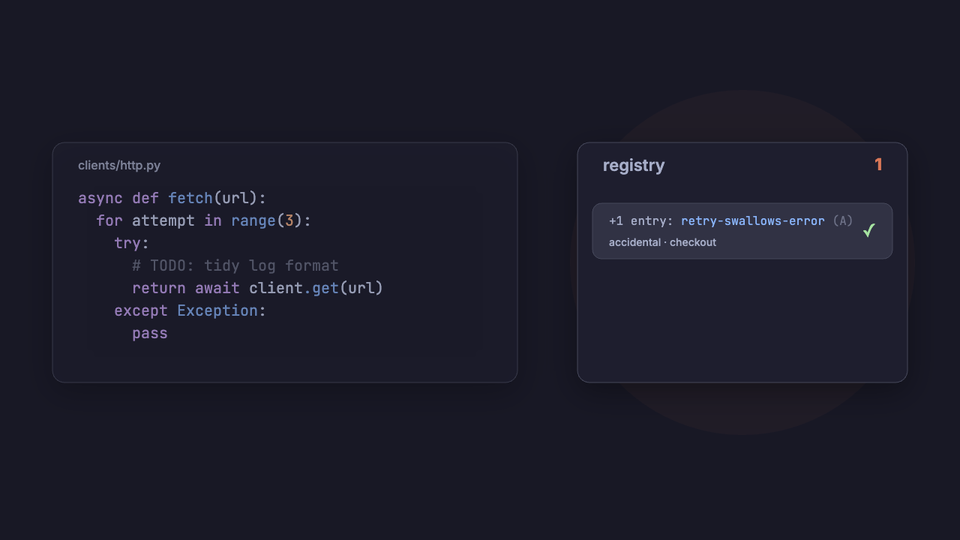
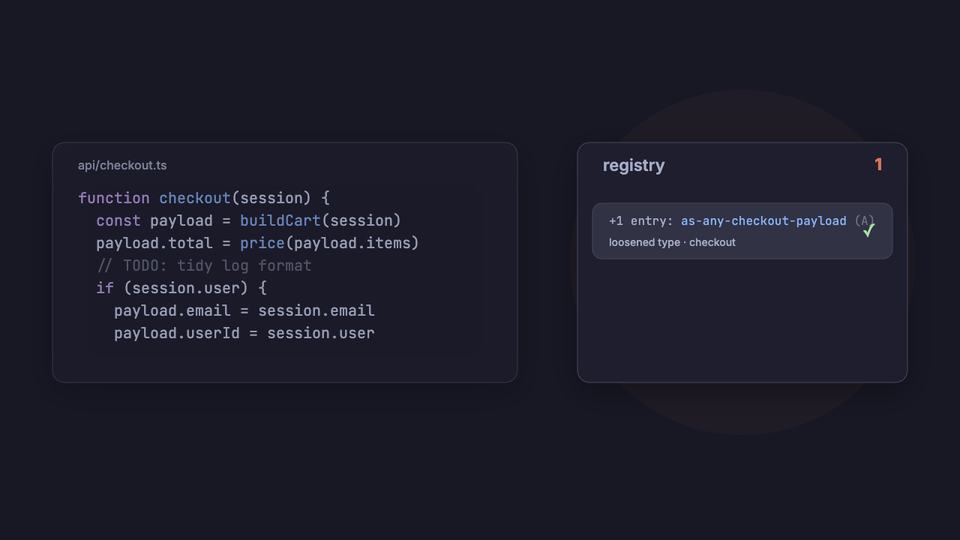
be

diff --git a/demo/concept/src/scenes/main.tsx b/demo/concept/src/scenes/main.tsx
@@ -34,23 +34,23 @@ const cardA = {x: regPanel.x, y: -52, w: 400, h: 74};
 const cardB = {x: regPanel.x, y: 38, w: 400, h: 74};
 
 const codeLines: {indent: number; tokens: [string, string][]}[] = [
-  {indent: 0, tokens: [['async ', T.MAUVE], ['def ', T.MAUVE], ['fetch', T.BLUE], ['(url):', T.TEXT]]},
-  {indent: 2, tokens: [['for ', T.MAUVE], ['attempt ', T.TEXT], ['in ', T.MAUVE], ['range', T.BLUE], ['(', T.TEXT], ['3', T.PEACH], ['):', T.TEXT]]},
-  {indent: 4, tokens: [['try', T.MAUVE], [':', T.TEXT]]},
-  {indent: 6, tokens: [['# TODO: tidy log format', T.OVERLAY0]]},
-  {indent: 6, tokens: [['return ', T.MAUVE], ['await ', T.MAUVE], ['client', T.TEXT], ['.get', T.BLUE], ['(url)', T.TEXT]]},
-  {indent: 4, tokens: [['except ', T.MAUVE], ['Exception', T.BLUE], [':', T.TEXT]]},
+  {indent: 0, tokens: [['function ', T.MAUVE], ['checkout', T.BLUE], ['(session) {', T.TEXT]]},
+  {indent: 2, tokens: [['const ', T.MAUVE], ['payload ', T.TEXT], ['= ', T.TEXT], ['buildCart', T.BLUE], ['(session)', T.TEXT]]},
+  {indent: 2, tokens: [['payload.total ', T.TEXT], ['= ', T.TEXT], ['price', T.BLUE], ['(payload.items)', T.TEXT]]},
+  {indent: 2, tokens: [['// TODO: tidy log format', T.OVERLAY0]]},
+  {indent: 2, tokens: [['if ', T.MAUVE], ['(session.user) {', T.TEXT]]},
+  {indent: 4, tokens: [['payload.email ', T.TEXT], ['= ', T.TEXT], ['session.email', T.TEXT]]},
 ];
-const DEF_INDENT = 6;
-const DEF_PASS = 'pass  ';
-const DEF_COMMENT = '# TODO: last retry swallows error';
+const DEF_INDENT = 4;
+const DEF_KEEP = 'payload.userId = session.user ';
+const DEF_CAST = 'as any';
 
 export default makeScene2D(function* (view) {
   const code = createRef<Rect>();
   const reg = createRef<Rect>();
   const lines = createRefArray<Txt>();
   const defLine = createRef<Txt>();
-  const defComment = createRef<Txt>();
+  const defCast = createRef<Txt>();
   const underline = createRef<Rect>();
   const pulse = createRef<Rect>();
   const chip = createRef<Rect>();
@@ -82,7 +82,7 @@ export default makeScene2D(function* (view) {
         shadowOffsetY={12}
         opacity={0}
       >
-        <Txt text={'clients/http.py'} fontFamily={T.SANS} fontSize={16} fontWeight={500} fill={T.SUBTEXT0} offset={[-1, 0]} x={codeLeft} y={codeTop} />
+        <Txt text={'api/checkout.ts'} fontFamily={T.SANS} fontSize={16} fontWeight={500} fill={T.SUBTEXT0} offset={[-1, 0]} x={codeLeft} y={codeTop} />
         {codeLines.map((line, i) => (
           <Txt ref={lines} fontFamily={T.MONO} fontSize={CODE} textWrap={false} offset={[-1, 0]} x={charX(line.indent)} y={lineYL(i)} opacity={0}>
             {line.tokens.map(([t, c]) => (
@@ -91,11 +91,12 @@ export default makeScene2D(function* (view) {
           </Txt>
         ))}
         <Txt ref={defLine} fontFamily={T.MONO} fontSize={CODE} textWrap={false} offset={[-1, 0]} x={charX(DEF_INDENT)} y={lineYL(6)} opacity={0}>
-          <Txt text={nb(DEF_PASS)} fill={T.MAUVE} />
-          <Txt ref={defComment} text={nb(DEF_COMMENT)} fill={T.OVERLAY0} />
+          <Txt text={nb(DEF_KEEP)} fill={T.TEXT} />
+          <Txt ref={defCast} text={nb(DEF_CAST)} fill={T.MAUVE} />
         </Txt>
-        <Rect ref={pulse} x={charX(25.5)} y={lineYL(6)} width={39 * CH} height={26} radius={6} fill={T.PEACH} opacity={0} />
-        <Rect ref={underline} offset={[-1, 0]} x={charX(6)} y={lineYL(6) + 15} width={0} height={3} radius={2} fill={T.PEACH} />
+        {/* highlight just the `as any` cast — col 34 is where it starts (after the 30-char prefix) */}
+        <Rect ref={pulse} x={charX(37)} y={lineYL(6)} width={6 * CH} height={26} radius={6} fill={T.PEACH} opacity={0} />
+        <Rect ref={underline} offset={[-1, 0]} x={charX(34)} y={lineYL(6) + 15} width={0} height={3} radius={2} fill={T.PEACH} />
       </Rect>
 
       {/* debt registry */}
@@ -118,12 +119,12 @@ export default makeScene2D(function* (view) {
         <Txt ref={count} text={'0'} fontFamily={T.SANS} fontSize={22} fontWeight={800} fill={T.ORANGE} offset={[1, 0]} x={regRight} y={codeTop} />
       </Rect>
 
-      {card(cardARef, checkA, strikeA, cardA, 'retry-swallows-error', 'A', 'accidental · checkout')}
+      {card(cardARef, checkA, strikeA, cardA, 'as-any-checkout-payload', 'A', 'loosened type · checkout')}
       {card(cardBRef, createRef<Txt>(), createRef<Rect>(), cardB, 'log-format-nit', 'B', 'code quality')}
 
       {/* flying chip */}
       <Rect ref={chip} radius={8} fill={T.SURFACE0} stroke={T.PEACH} lineWidth={1.5} padding={[6, 12]} layout opacity={0}>
-        <Txt ref={chipTxt} text={DEF_COMMENT} fontFamily={T.MONO} fontSize={16} fill={T.PEACH} />
+        <Txt ref={chipTxt} text={DEF_CAST} fontFamily={T.MONO} fontSize={16} fill={T.PEACH} />
       </Rect>
 
       {/* brand resolve */}
@@ -132,7 +133,7 @@ export default makeScene2D(function* (view) {
           <Txt text={'debt'} fill={T.TEXT} />
           <Txt text={'-ops'} fill={T.ORANGE} />
         </Txt>
-        <Txt text={'Catches tech debt as your agent writes it.'} fontFamily={T.SANS} fontSize={28} fontWeight={500} fill={T.SUBTEXT1} y={40} />
+        <Txt text={'Catches AI-introduced tech debt at write-time.'} fontFamily={T.SANS} fontSize={28} fontWeight={500} fill={T.SUBTEXT1} y={40} />
       </Node>
     </>,
   );
@@ -152,19 +153,19 @@ export default makeScene2D(function* (view) {
   yield* waitFor(0.35);
 
   // ════════ Beat 1 · Shortcut born ════════
-  yield* underline().width(39 * CH, T.D.underline, T.STANDARD);
+  yield* underline().width(6 * CH, T.D.underline, T.STANDARD);
   yield* waitFor(0.45); // brief beat; no caption, no need for long reading time
 
   // ════════ Beat 2 · The catch (hero) ════════
   yield* chain(pulse().opacity(0.18, T.D.pulse / 2, T.STANDARD), pulse().opacity(0, T.D.pulse / 2, T.STANDARD));
   yield* all(defLine().y(lineYL(6) - 4, T.D.anticipate, T.STANDARD), defLine().scale(1.05, T.D.anticipate, T.STANDARD));
-  const chipStart = inCode(charX(28.5), lineYL(6));
+  const chipStart = inCode(charX(37), lineYL(6));
   const slotA = new Vector2(cardA.x, cardA.y);
   const apexA = new Vector2((chipStart.x + slotA.x) / 2, Math.min(chipStart.y, slotA.y) - 120);
   chip().position(chipStart);
   yield* all(
     chip().opacity(1, 0.1, T.ENTER),
-    defComment().opacity(0, 0.1, T.STANDARD),
+    defCast().opacity(0, 0.1, T.STANDARD),
     underline().opacity(0, 0.15, T.STANDARD),
     code().opacity(0.7, 0.2, T.STANDARD),
     defLine().y(lineYL(6), T.D.anticipate, T.STANDARD),
@@ -181,10 +182,10 @@ export default makeScene2D(function* (view) {
   yield* waitFor(1.2); // hero hold — read the filed entry
 
   // ════════ Beat 3 · Continuous ════════
-  // Now we're flying the *actual* `# TODO: tidy log format` comment off line 3.
-  const chipStartB = inCode(charX(17), lineYL(3));
+  // Now we're flying the *actual* `// TODO: tidy log format` comment off line 3.
+  const chipStartB = inCode(charX(14), lineYL(3));
   chip().opacity(0).position(chipStartB);
-  chipTxt().text('# TODO: tidy log format');
+  chipTxt().text('// TODO: tidy log format');
   const slotB = new Vector2(cardB.x, cardB.y);
   const apexB = new Vector2((chipStartB.x + slotB.x) / 2, -180);
   // Fade the line-3 comment as the chip "becomes" it.
@@ -211,7 +212,7 @@ export default makeScene2D(function* (view) {
   );
   yield* waitFor(0.28); // one card remains — the real one
   // Then: card A is paid down. Border + ✓ stamp + strikethrough + recede.
-  const slugWidth = ('+1 entry: ' + 'retry-swallows-error' + ' (A)').length * 9.6;
+  const slugWidth = ('+1 entry: ' + 'as-any-checkout-payload' + ' (A)').length * 9.6;
   yield* all(
     cardARef().stroke(T.GREEN, 0.22, T.ENTER),
     cardARef().lineWidth(2.5, 0.22, T.ENTER),

diff --git a/claude-code/scripts/session-start.py b/claude-code/scripts/session-start.py
@@ -284,7 +284,7 @@ def disciplines_text(adr_dir, registry_dir):
         '2. When making an architecturally significant change — a data model, public interface, '
         'security boundary, release pipeline, or a dep-manifest change that is a major-version bump '
         f'or a *new* top-level dependency — draft an ADR under {adr_dir}/ in Nygard format: a '
-        '`# NNNN — Title` heading, a `**Status:**` line, then Context, Decision, Consequences, '
+        '`# NNNN — Title` heading, `**Date:**` and `**Status:**` lines, then Context, Decision, Consequences, '
         'Alternatives, Payoff trigger. Create the directory if needed. Only draft an ADR when there '
         'are two credible alternatives; if you cannot list two, it is a comment, not an ADR. An ADR '
         'with a payoff trigger *is* deliberate debt — when you write one, also call /debt-ops:add so '

diff --git a/codex/hooks/session-start.py b/codex/hooks/session-start.py
@@ -295,7 +295,7 @@ def disciplines_text(adr_dir, registry_dir):
         '2. When making an architecturally significant change — a data model, public interface, '
         'security boundary, release pipeline, or a dep-manifest change that is a major-version bump '
         f'or a *new* top-level dependency — draft an ADR under {adr_dir}/ in Nygard format: a '
-        '`# NNNN — Title` heading, a `**Status:**` line, then Context, Decision, Consequences, '
+        '`# NNNN — Title` heading, `**Date:**` and `**Status:**` lines, then Context, Decision, Consequences, '
         'Alternatives, Payoff trigger. Create the directory if needed. Only draft an ADR when there '
         'are two credible alternatives; if you cannot list two, it is a comment, not an ADR. An ADR '
         'with a payoff trigger *is* deliberate debt — when you write one, also invoke `$add` so the '

diff --git a/README.md b/README.md
@@ -1,28 +1,21 @@
 # debt-ops
 
-**Catches tech debt and architectural decisions as your AI codes. Then stays out of your way until you're ready.**
+**Catches AI-introduced tech debt at write-time**
 
-Any stack. Backed by decades of research.
+*Works with [Claude Code](./claude-code) and [Codex](./codex). Any stack. Backed by decades of research.*
 
-*Works with [Claude Code](./claude-code) and [Codex](./codex).*
+<img src="./demo/debt-ops.gif" width="720" alt="debt-ops in Claude Code: the agent edits api/checkout.ts and casts a value to `as any` to clear a type error; debt-ops catches the loosened type at write-time and logs +1 entry: as-any-checkout-payload (A)" />
+
+*Every `TODO`, `as any`, and `.skip` your AI agent writes, turned into a paydown queue ranked by churn.*
 
 [![MIT License](https://img.shields.io/github/license/bcanfield/agentic-tech-debt?color=blue)](./LICENSE)
 [![Claude Code plugin](https://img.shields.io/badge/Claude%20Code-plugin-d97757)](./claude-code)
-[![Codex plugin](https://img.shields.io/badge/Codex-plugin-000000)](./codex)
 
-<img src="./demo/concept/debt-ops-concept.gif" width="720" alt="A real `# TODO` deferral in the code detaches and files itself as a registry entry `+1 entry: retry-swallows-error (A)`; a second nit is caught the same way; the nit slides off and the kept entry is paid down (strikethrough + green ✓); the registry empties to zero; debt-ops wordmark." />
-
-## What it does
-
-- **Logs every shortcut** to a debt registry: a TODO, a stub, a loosened type, a "fix it later."
-- **Writes a short decision record** when your agent makes an architectural call.
-- **Reads what's already logged** before changing a file, so your agent stops re-litigating settled decisions.
-- **Runs your linter, type-checker, and tests** on each agentic edit, fixing failures before they reach your diff.
-- **Ranks what to clean up first** by how active each file is, so effort goes to the hotspots.
+> AI ships code fast and accrues debt faster. GitClear's 2024 analysis found refactored code fell from ~25% of changes to under 10%, while copy-pasted code rose 48%. The shortcuts pile up between PRs, where nobody's looking.
 
 ## Install
 
-A self-contained plugin per agent. Both need a git repo and Python 3.10+.
+Just needs a git repo and Python 3.10+.
 
 **Claude Code** (v2.1.121+)
 
@@ -40,6 +33,31 @@ codex plugin marketplace add bcanfield/agentic-tech-debt
 
 Nothing's written until there's a reason. Entries land in `docs/debt/`, decisions in `docs/adr/`.
 
+## Contents
+
+- [debt-ops](#debt-ops)
+  - [Install](#install)
+  - [Contents](#contents)
+  - [What it does](#what-it-does)
+  - [Who it's for](#who-its-for)
+  - [Commands](#commands)
+  - [Why it exists](#why-it-exists)
+  - [License](#license)
+
+## What it does
+
+- **Logs every shortcut** to a debt registry: a TODO, a stub, a loosened type, a "fix it later."
+- **Writes a short decision record** when your agent makes an architectural call.
+- **Reads what's already logged** before changing a file, so your agent stops re-litigating settled decisions.
+- **Runs your linter, type-checker, and tests** on each agentic edit, fixing failures before they reach your diff.
+- **Ranks what to clean up first** by how active each file is, so effort goes to the hotspots.
+
+## Who it's for
+
+**For you if** you let AI agents write a lot of your code, you care about what they cut corners on, and you want that visible before it hits review instead of after.
+
+**Not for you if** you're after a PR-time linter or a CI gate. debt-ops runs inside the agent loop at write-time, not on your pipeline, and it won't block a merge.
+
 ## Commands
 
 Claude Code `/debt-ops:<name>` · Codex `$<name>`:
@@ -49,11 +67,11 @@ Claude Code `/debt-ops:<name>` · Codex `$<name>`:
 - **init** *(opt-in)*: write the disciplines into `CLAUDE.md`/`AGENTS.md` so the team shares them.
 - **metrics**: read-only health summary of the registry.
 
-<img src="./demo/debt-ops.gif" width="720" alt="debt-ops in Claude Code: adding retry logic logs two entries as ruff, mypy and pytest pass, logging two entries: the swallowed error (A) and a logging nit (B); drop B prunes the nit; then /debt-ops:review ranks the churn hotspots" />
-
 ## Why it exists
 
 AI accrues debt faster than you can review it. The fix is decades old: make it visible, pay it down continuously, document the decisions. Distilled here into [nine cited pillars](./docs/tech-debt-pillars.md) wired into the agent loop. Full [research synthesis](./docs/tech-debt-management.md).
+
+<img src="./demo/concept/debt-ops-concept.gif" width="720" alt="A `as any` cast in api/checkout.ts is caught at write-time and files itself as a registry entry `+1 entry: as-any-checkout-payload (A)`; a `// TODO` nit is caught the same way; the nit is pruned and the kept entry is paid down (strikethrough + green check); the registry empties to zero; debt-ops wordmark." />
 
 ## License
 

diff --git a/claude-code/skills/init/SKILL.md b/claude-code/skills/init/SKILL.md
@@ -54,9 +54,9 @@ Substitute `{{COMMANDS}}` with the cache contents verbatim, `{{ADR_DIR}}` with t
 
 ### Disciplines
 
-1. If you defer work — decision unmade, stub, loosened type, "future"/"later" comment, or `TODO`/`FIXME`/`HACK`/`XXX` marker — register via `/debt-ops:add` immediately. Test: would a future reader ask "why this way?" If yes, register. No prompt. Use `payoff_trigger: unknown` if unsure. Announce: `+1 entry: <slug> (drop?)`. Over-register freely; the developer drops with "drop it".
+1. The test for debt: would a future reader ask "why this way?" If yes, register via `/debt-ops:add` immediately — no prompt. This is judgment, not a marker scan: a `TODO`/`FIXME`/`HACK`/`XXX` is the obvious case, but an unmade decision, a stub, a loosened type, or a default picked "for now" all count even with no marker in the diff. Use `payoff_trigger: unknown` if unsure. Announce: `+1 entry: <slug> (drop?)`. Over-register freely; the developer drops with "drop it".
 
-2. When making an architecturally significant change — a data model, public interface, security boundary, release pipeline, or a dep-manifest change that is a major-version bump or a *new* top-level dependency — draft an ADR under `{{ADR_DIR}}/` in Nygard format (Context, Decision, Consequences, Alternatives, Payoff trigger). Create the directory if needed. Only draft an ADR when there are two credible alternatives; if you cannot list two, it is a comment, not an ADR. If the ADR introduces deliberate debt, also call `/debt-ops:add` so the registry entry mirrors the ADR.
+2. When making an architecturally significant change — a data model, public interface, security boundary, release pipeline, or a dep-manifest change that is a major-version bump or a *new* top-level dependency — draft an ADR under `{{ADR_DIR}}/` in Nygard format: a `# NNNN — Title` heading, `**Date:**` and `**Status:**` lines, then Context, Decision, Consequences, Alternatives, Payoff trigger. Create the directory if needed. Only draft an ADR when there are two credible alternatives; if you cannot list two, it is a comment, not an ADR. An ADR with a payoff trigger *is* deliberate debt — when you write one, also call `/debt-ops:add` so the registry entry mirrors the ADR (don't conclude "no markers, no debt").
 
 3. Read entries under `{{REGISTRY_DIR}}/` before changing files they reference.
 

diff --git a/codex/skills/init/SKILL.md b/codex/skills/init/SKILL.md
@@ -45,9 +45,9 @@ Substitute `{{COMMANDS}}` with the cache contents verbatim, `{{ADR_DIR}}` with t
 
 ### Disciplines
 
-1. If you defer work — decision unmade, stub, loosened type, "future"/"later" comment, or `TODO`/`FIXME`/`HACK`/`XXX` marker — register via the `$add` skill immediately. Test: would a future reader ask "why this way?" If yes, register. No prompt. Use `payoff_trigger: unknown` if unsure. Announce: `+1 entry: <slug> (drop?)`. Over-register freely; the developer drops with "drop it".
+1. The test for debt: would a future reader ask "why this way?" If yes, register via the `$add` skill immediately — no prompt. This is judgment, not a marker scan: a `TODO`/`FIXME`/`HACK`/`XXX` is the obvious case, but an unmade decision, a stub, a loosened type, or a default picked "for now" all count even with no marker in the diff. Use `payoff_trigger: unknown` if unsure. Announce: `+1 entry: <slug> (drop?)`. Over-register freely; the developer drops with "drop it".
 
-2. When making an architecturally significant change — a data model, public interface, security boundary, release pipeline, or a dep-manifest change that is a major-version bump or a *new* top-level dependency — draft an ADR under `{{ADR_DIR}}/` in Nygard format (Context, Decision, Consequences, Alternatives, Payoff trigger). Create the directory if needed. Only draft an ADR when there are two credible alternatives; if you cannot list two, it is a comment, not an ADR. If the ADR introduces deliberate debt, also invoke `$add` so the registry entry mirrors the ADR.
+2. When making an architecturally significant change — a data model, public interface, security boundary, release pipeline, or a dep-manifest change that is a major-version bump or a *new* top-level dependency — draft an ADR under `{{ADR_DIR}}/` in Nygard format: a `# NNNN — Title` heading, `**Date:**` and `**Status:**` lines, then Context, Decision, Consequences, Alternatives, Payoff trigger. Create the directory if needed. Only draft an ADR when there are two credible alternatives; if you cannot list two, it is a comment, not an ADR. An ADR with a payoff trigger *is* deliberate debt — when you write one, also invoke `$add` so the registry entry mirrors the ADR (don't conclude "no markers, no debt").
 
 3. Read entries under `{{REGISTRY_DIR}}/` before changing files they reference.
 

diff --git a/claude-code/skills/add/SKILL.md b/claude-code/skills/add/SKILL.md
@@ -1,6 +1,6 @@
 ---
 name: add
-description: Register a deferred decision in the debt registry — TODO/FIXME/HACK/XXX markers, stubs, loosened types, bypassed checks, swallowed errors, or "future"/"later"/"someday" comments. Trigger immediately whenever you defer work, or when the user invokes /debt-ops:add. Over-register freely; the developer drops with "drop A", "drop A,C", or "drop all".
+description: Register a deferred decision in the debt registry. Trigger by judgment, not a marker scan — whenever a future reader would ask "why this way?": an unmade decision, stub, loosened type, bypassed check, swallowed error, a default picked "for now", or a TODO/FIXME/HACK/XXX marker. Trigger immediately whenever you defer work, or when the user invokes /debt-ops:add. Over-register freely; the developer drops with "drop A", "drop A,C", or "drop all".
 allowed-tools: Bash(python3 *), Bash(rm *)
 ---
 

diff --git a/codex/skills/add/SKILL.md b/codex/skills/add/SKILL.md
@@ -1,6 +1,6 @@
 ---
 name: add
-description: Register a deferred decision in the debt registry — TODO/FIXME/HACK/XXX markers, stubs, loosened types, bypassed checks, swallowed errors, or "future"/"later"/"someday" comments. Trigger immediately whenever you defer work, or when the user invokes $add. Over-register freely; the developer drops with "drop A", "drop A,C", or "drop all".
+description: Register a deferred decision in the debt registry. Trigger by judgment, not a marker scan — whenever a future reader would ask "why this way?": an unmade decision, stub, loosened type, bypassed check, swallowed error, a default picked "for now", or a TODO/FIXME/HACK/XXX marker. Trigger immediately whenever you defer work, or when the user invokes $add. Over-register freely; the developer drops with "drop A", "drop A,C", or "drop all".
 ---
 
 # add — register a tech-debt entry

diff --git a/docs/adr/README.md b/docs/adr/README.md
@@ -12,6 +12,8 @@ Every ADR has five short sections, written in plain language:
 - **Alternatives we ruled out** — and why each was worse.
 - **When to revisit** — the trigger that should pull this decision back open.
 
+These are this repo's friendlier aliases for classic [Nygard](https://cognitect.com/blog/2011/11/15/documenting-architecture-decisions) sections. The plugin *ships* the classic names to user repos — Context, Decision, **Consequences** (≈ what this means for you), Alternatives, **Payoff trigger** (≈ when to revisit) — so an ADR generated in any repo is recognizable. Same five sections, same intent; only the two labels differ.
+
 ## House style
 
 Keep it tight. 2–3 sentences per section is plenty. If a section is longer than a paragraph, you're probably writing the implementation, not the decision.